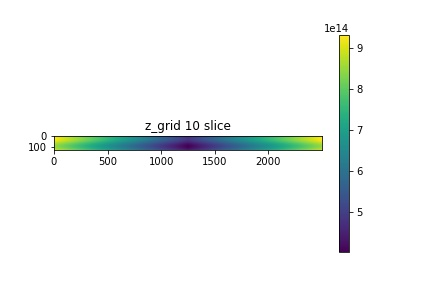
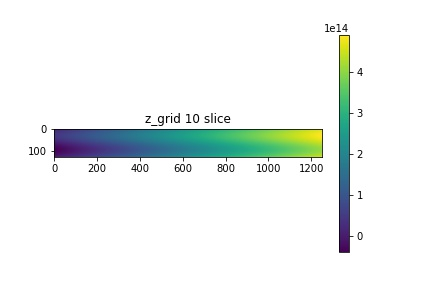
warp: need to fiddle with kevin projection onto sky to fix z-mirroring

diff --git a/Warp/disk_ecc_warp.py b/Warp/disk_ecc_warp.py
@@ -173,7 +173,8 @@ class Disk:
         zf_og = np.linspace(zmin,self.zmax,nzc)
         zf_inv = np.linspace(self.zmax, zmin, nzc)
 
-        zf = np.concatenate((zf_inv, zf_og))
+        #zf = np.concatenate((zf_inv, zf_og))
+        zf = zf_og
 
         print("zmax = " + str(self.zmax)) 
         pf = np.linspace(0,2*np.pi,self.nphi) #f is with refrence to semi major axis
@@ -488,7 +489,8 @@ class Disk:
 
         '''which sig_col need to be... I'm going to try len(zf)'''
         sig_col_og = np.zeros((nac,nfc,nzc))
-        sig_col = np.zeros((nac,nfc,len(zf)))
+        #sig_col = np.zeros((nac,nfc,len(zf)))
+        sig_col = sig_col_og
         #zice = np.zeros((nac,nfc))
         for ia in range(nac):
             for jf in range (nfc):
@@ -528,6 +530,11 @@ class Disk:
         print("sig_col_up mean " +str(np.mean(sig_col)))
         #szpht = zpht
         #print("Zpht {t} seconds".format(t=(time.clock()-tst)))
+
+        plt.imshow(sig_col[:,:,0])
+        plt.title("sig-col imshow")
+        plt.colorbar()
+        plt.show()
 
         self.af = af
         #self.ff = ff
@@ -662,16 +669,21 @@ class Disk:
         else:
             diskZ = Z*self.costhet
 
-        tdiskZ = diskZ.repeat(self.nz).reshape(self.nphi,self.nr,self.nz)
+        tdiskZ = diskZ.repeat(self.nz).reshape(self.nphi,self.nr,self.nz)+zsky*self.costhet
 
 
         '''maybe this is where the z mirroring is happening?'''
         '''maybe if I interpolate z grid onto this resolution and them add zsky...'''
         
-        #tdiskZ = (Y.repeat(self.nz).reshape(self.nphi,self.nr,self.nz))*self.sinthet+zsky*self.costhet
+        tdiskZ_og = (Y.repeat(self.nz).reshape(self.nphi,self.nr,self.nz))*self.sinthet+zsky*self.costhet
         print("tdiskZ shape" + str(tdiskZ.shape))
         print("tdisk min " + str(np.min(tdiskZ)))
         print("tdisk max " + str(np.max(tdiskZ)))
+
+        plt.pcolor(X, Y, tdiskZ_og[:,:,0])
+        plt.title("tdiskZ original cart")
+        plt.colorbar()
+        plt.show()
 
 
 
@@ -698,9 +710,14 @@ class Disk:
         tphi = np.arctan2(tdiskY,X.repeat(self.nz).reshape(self.nphi,self.nr,self.nz))%(2*np.pi)
 
         plt.pcolor(X, Y, tdiskZ[:,:,0])
-        plt.title(tdiskZ)
+        plt.title("tdiskZ")
         plt.colorbar()
         plt.savefig("tdiskZ.jpg")
+        plt.show()
+
+        plt.imshow(tdiskZ[:,:,0])
+        plt.title("tdiskZ")
+        plt.colorbar()
         plt.show()
 
 
